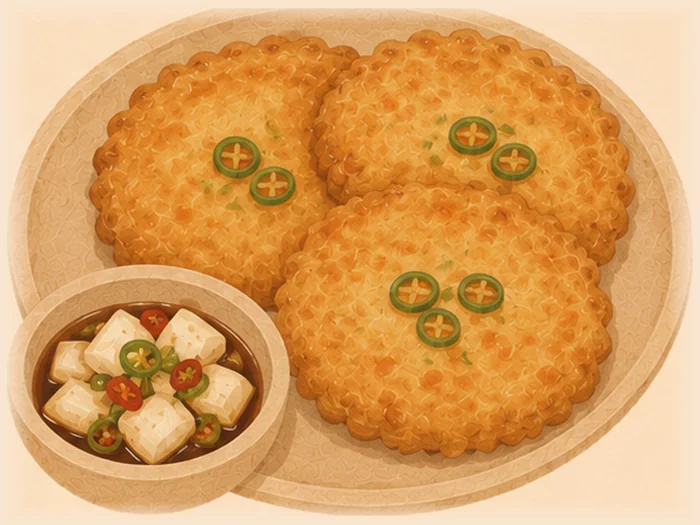
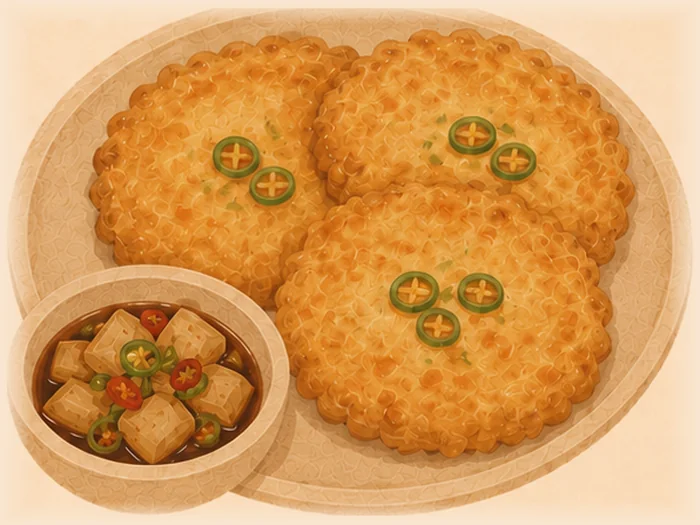
馬鈴薯餅換圖 —— 旁邊那碗醃洋蔥跟著吃到醬色
同一批重生的，跟 r10 的修正一致：那碗不是沾醬，是醃洋蔥，
洋蔥就該染上醬油色。

Changed region(s): [[0.06, 0.579, 0.36, 0.8838], [0.57, 0.5486, 0.6, 0.579], [0.33, 0.2743, 0.36, 0.3048]]

diff --git a/index.html b/index.html
@@ -507,7 +507,7 @@ ol.steps strong { color: var(--brand); font-weight: 700; }
    ══════════════════════════════════════════════ */
 
 /* 素材版本。換過圖就 bump 一次，否則瀏覽器會一直用舊的快取 */
-const ASSETS = '7';
+const ASSETS = '8';
 const asset = p => p + '?v=' + ASSETS;
 
 const $ = (s, el = document) => el.querySelector(s);
